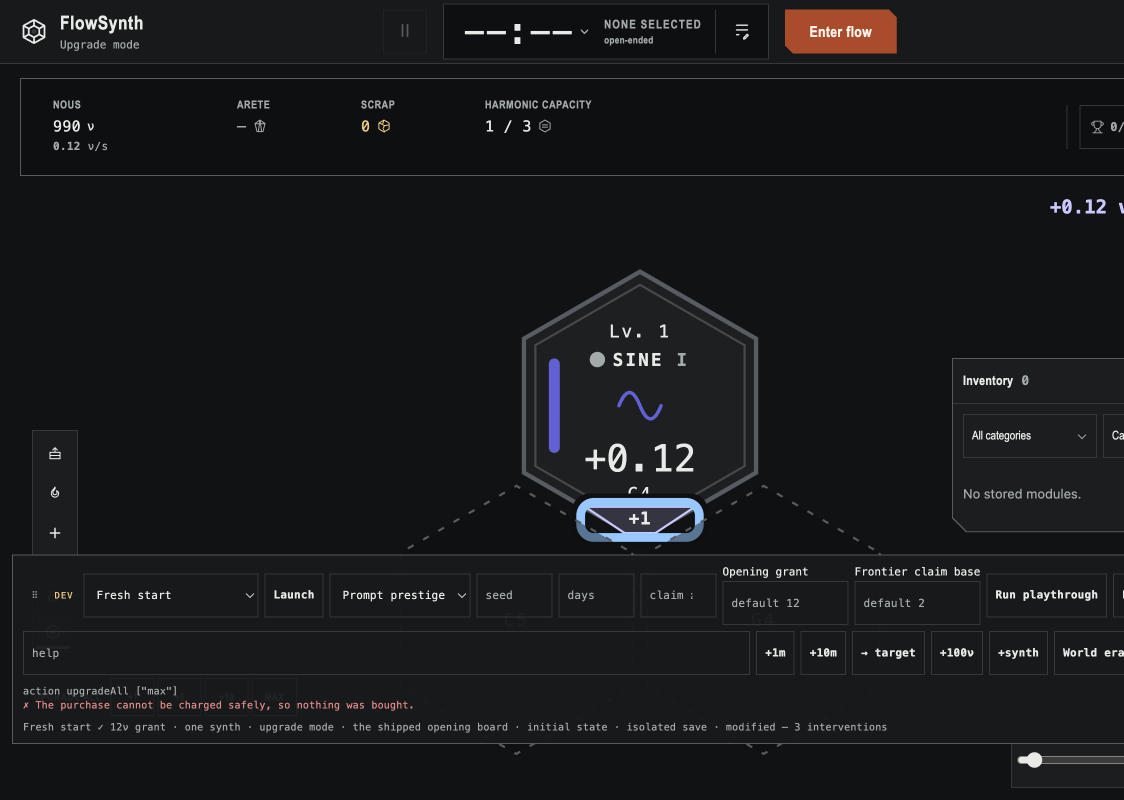
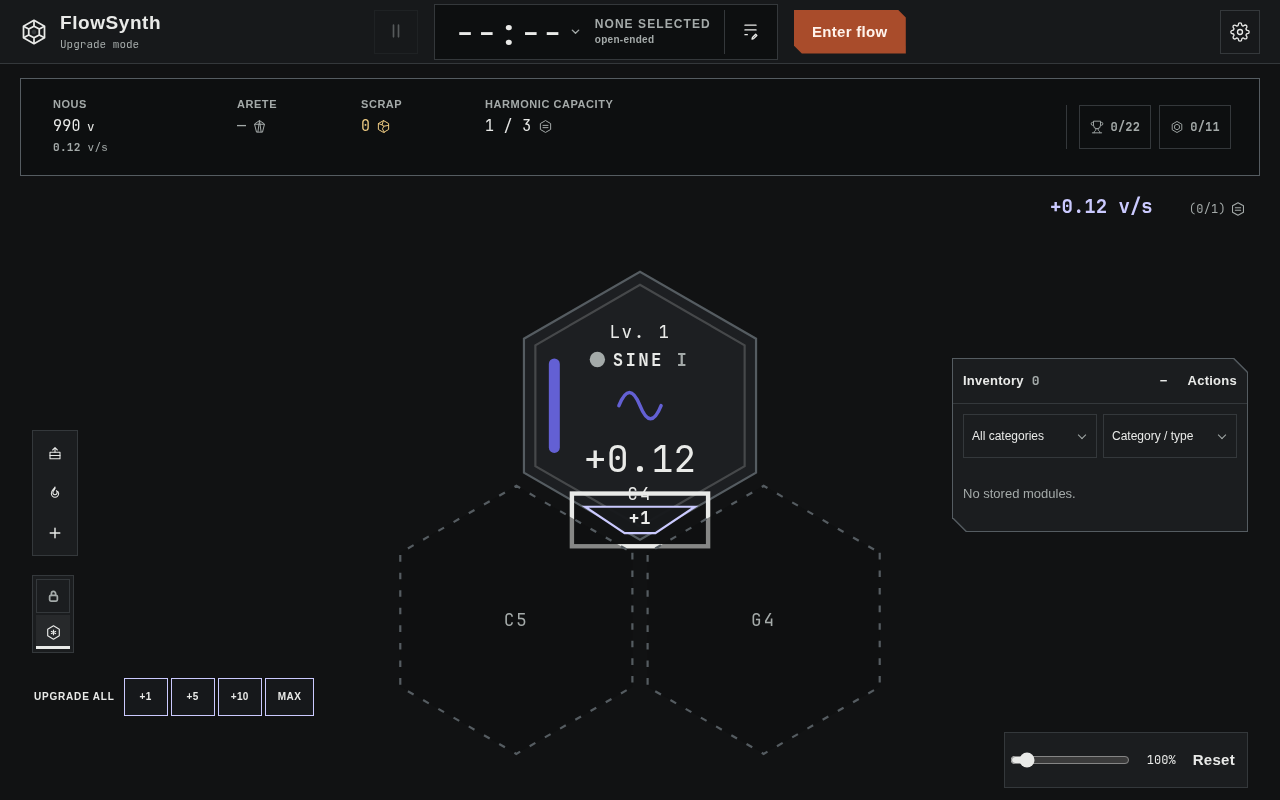
Recapture final purchase controls on desktop and phone (#485)

diff --git a/docs/evidence/485-purchase-integrity/README.md b/docs/evidence/485-purchase-integrity/README.md
@@ -1,56 +1,73 @@
-# #485 — upgrade purchases at the numeric limits: refusal and recovery evidence
+# #485 — purchase integrity: final-revision refusal, recovery, and boundary quotes
 
-Captured from the verified checkout per `provenance.json` (commit `73234e6`,
-clean source) on 2026-10-30, both viewports, through the real purchase
-controls on the fresh-start scenario's isolated save.
+Recaptured on 2026-10-30 from the verified checkout in `provenance.json`:
+source commit `e78cebebe9cf3b7e5811a5c26b27bd4ad2f58ff5`, clean source, after
+all purchase-control changes. Desktop is 1280×800; phone is 390×844. Later
+commits in this pass contain evidence only, not application source.
 
-Provenance note: the review-fix commit that followed (`git diff
-73234e6..HEAD -- src/ui/render.ts src/ui/hexdetail.ts`) touches only
-corrupt-module rendering paths and the unpriceable-roster quote basis —
-none of the flows captured here (finite refusal, nonfinite-bank refusal,
-recovery) changed; the refusal copy, status surface, and controls are
-identical at the capture commit and at HEAD.
+## Reproduce
 
-## What the captures show
+`capture.mjs` launches the fresh-start scenario, calls its assertion, drives
+real controls, checks state, and writes screenshots plus `observations.json`.
+It uses an isolated save, never the player's persistent save.
 
-The purchase-integrity refusal rides the existing failure surface: the
-`sr-only` `role="status"` live region (`index.html:115`), the same channel
-every action refusal uses. No new warning surface was added. The visible
-✗ line comes from the existing dev terminal (dev-only).
+Launch this checkout with `npm run dev`, then:
 
-| capture | viewport | flow |
-| --- | --- | --- |
-| `desktop-nonfinite-balance.png` | 1280×800 | NaN bank seeded on the isolated save; the ledger reads `— ν` |
-| `desktop-refusal.png` | 1280×800 | real face button `+1 level · 10 ν` clicked and `action upgradeAll ["max"]` run: level stays 0, balance unchanged; terminal prints `✗ The purchase cannot be charged safely, so nothing was bought.` |
-| `desktop-recovery.png` | 1280×800 | valid bank (1,000 ν) set on the same save: the same face button buys level 1, ledger reads 990 ν, rate +0.12 ν/s |
-| `phone-refusal.png` | 414×896 | the same face control clicked with the NaN bank: `✗ The purchase cannot be charged safely, so nothing was bought.`, module unchanged, `modified — 4 interventions` |
-| `phone-recovery.png` | 414×896 | valid bank (100 ν): the same control buys level 2, rate +0.14 ν/s, `modified — 5 interventions` |
+```sh
+node tools/evidence-preflight.mjs --url http://localhost:5173/ --record docs/evidence/485-purchase-integrity/provenance.json
+PLAYWRIGHT_MODULE=/absolute/path/to/playwright-core node docs/evidence/485-purchase-integrity/capture.mjs
+```
 
-## Recorded reads (same session, verbatim)
+Chromium defaults to `/usr/bin/chromium`; `CHROMIUM_PATH` and `EVIDENCE_URL`
+override browser and URL. The script confirms the live viewport dimensions
+and reduced-motion preference. A capture-only stylesheet hides the dev
+console so it cannot obscure the purchase controls; production surfaces
+are unchanged. The asserted fresh-start declaration is in `observations.json`.
 
-- Status live region after each refusal click: `The purchase cannot be
-  charged safely, so nothing was bought.` (single/mode-level refusals on
-  both viewports).
-- Dev interventions (engine ok/reason verbatim): `upgradeModuleLevels`
-  `ok:false` with the reason above (desktop face click, phone face click),
-  `upgradeAll ["max"]` `ok:false` with the same reason (dev terminal), then
-  `upgradeModuleLevels` `ok:true` after each valid bank was set — the
-  subsequent valid purchase stays usable on both viewports.
-- State reads: module level and invested unchanged across every refusal;
-  `nous` preserved as `NaN` until a valid bank replaced it; successful
-  purchases charged exactly the quoted price (10 ν, 16 ν).
+## Captures and recorded results
 
-## Verification notes and unavailable checks
+Every row has a `desktop-` and a `phone-` PNG.
 
-- Keyboard focus: the captures show the purchase controls holding visible
-  focus rings while activated (the focus-driven clicks); the refusal is
-  announced through the `aria-live` status region, confirmed by the DOM
-  reads above.
-- Reduced-motion behavior was not emulated in this pass — unavailable.
-- The ✗ line's red tint is color-only decoration on a glyph (`✗`) plus
-  text; the refusal reads without color. Not separately verified with
-  color simulation — unavailable.
+| Suffix | Flow and verification |
+| --- | --- |
+| `nonfinite-balance.png` | NaN bank on a fresh isolated save; the ledger reads `— ν`. |
+| `refusal.png` | Activate the real face buy control: desktop focus + Enter; phone tap. The module stays level 0, invested stays 0, and the bank stays NaN. |
+| `recovery.png` | Set a valid 1,000 ν bank on the same save and activate the same face control: level 1, balance 990 ν. |
+| `boundary-quote.png` | Fresh level-0 synth plus a tray module at level 1506, bank 10 ν. The +1 chip's exact title is `+1 on all 1 modules · 10 ν (buys cheapest-first if broke)`. |
+| `boundary-purchase.png` | Activate that +1 chip: desktop Enter, phone tap. The synth reaches level 1, the ceiling module stays 1506, and the bank becomes 0 ν. |
+| `detail.png` | Open the upgraded synth's cell. The current hex detail buy column remains present on desktop and phone. |
 
-The dev console was moved out of the capture area on the phone viewport
-(same pointer-gesture path its own tests drive); it is capture scaffolding,
-not part of the verified surface.
+The refusal reports through the existing `#status` live region
+(`role="status"`, `aria-live="polite"`). Its text after both refusal
+activations is exactly: `The purchase cannot be charged safely, so nothing
+was bought.` No new visible warning surface is introduced. The text and
+state assertions are recorded in `observations.json`, not inferred from
+screenshots of a screen-reader-only region.
+
+## Instrument-standard review and unavailable checks
+
+- Reviewed the captures against `docs/instrument-standards.md` and its
+  pinned presentation/control references (`eb232c4`, `d405ce2`): existing
+  square-cut controls, open detail divisions, monospace resource figures,
+  and selection/focus outlines remain unchanged. The quote fix adds no
+  panel, prose block, warning, or duplicate disclosure surface.
+- Keyboard purchase activation and visible face/cluster focus are captured
+  on desktop; actual touch activation and detail opening run on phone.
+- The failure uses explicit text; unchanged level and balance are asserted.
+  Corrected quotes name module count and price, not a color-only distinction.
+- Reduced motion is emulated for both passes and confirmed by
+  `matchMedia("(prefers-reduced-motion: reduce)").matches === true`.
+- Unavailable: screen-reader speech output, color-vision simulation, and
+  keyboard/touch disclosure of browser-native `title` tooltips. Exact title
+  text is DOM-verified; the screenshots do not claim to show native tooltips.
+
+## Later-step overflow coverage
+
+`purchase-integrity.test.ts` now includes the parameterized public-action
+case `a %s-level operation refuses whole when only its later step overflows`
+for `2` and `max`. It proves the first level alone succeeds and the next
+level overflows the invested ledger. Both the per-module ladder and the
+board-wide action must instead refuse the combined operation without
+changing any level, ledger, or bank. This supplements the existing case
+whose first proposed level already overflows; it does not relabel that
+older case as within-operation rollback evidence.
